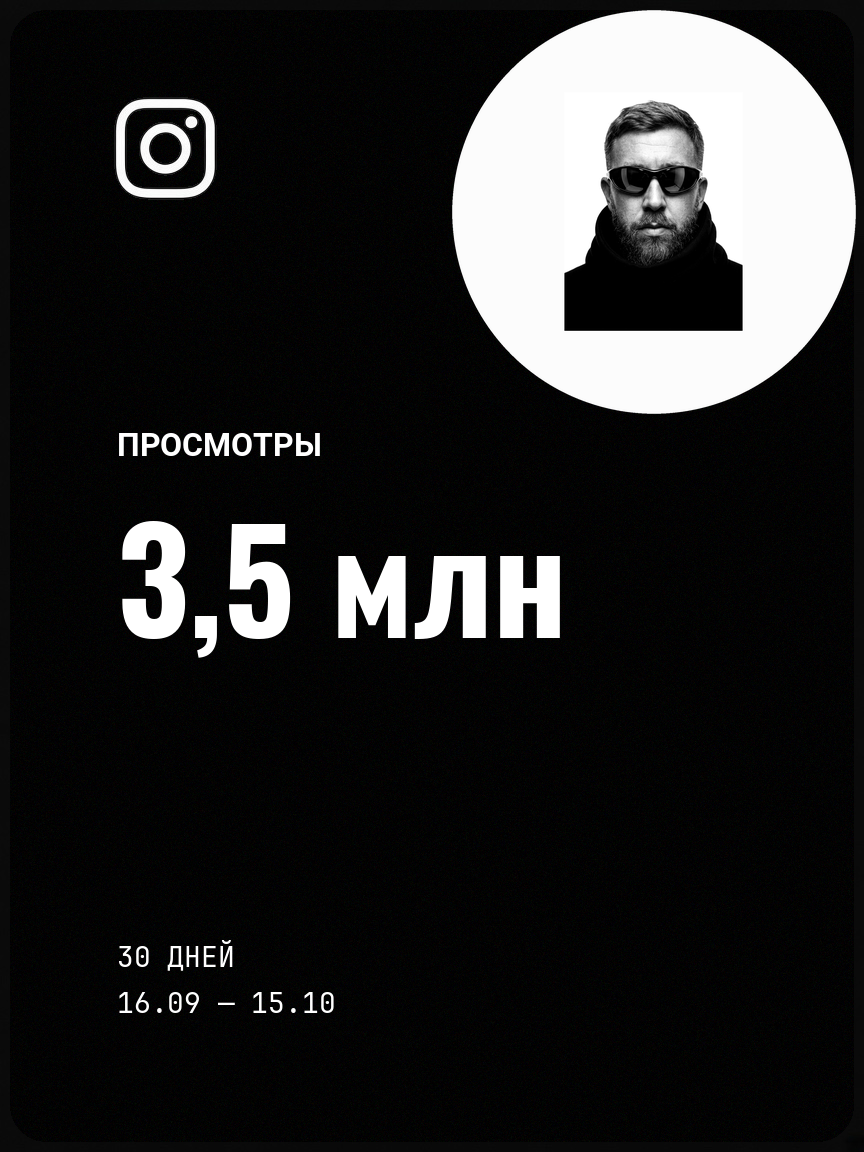
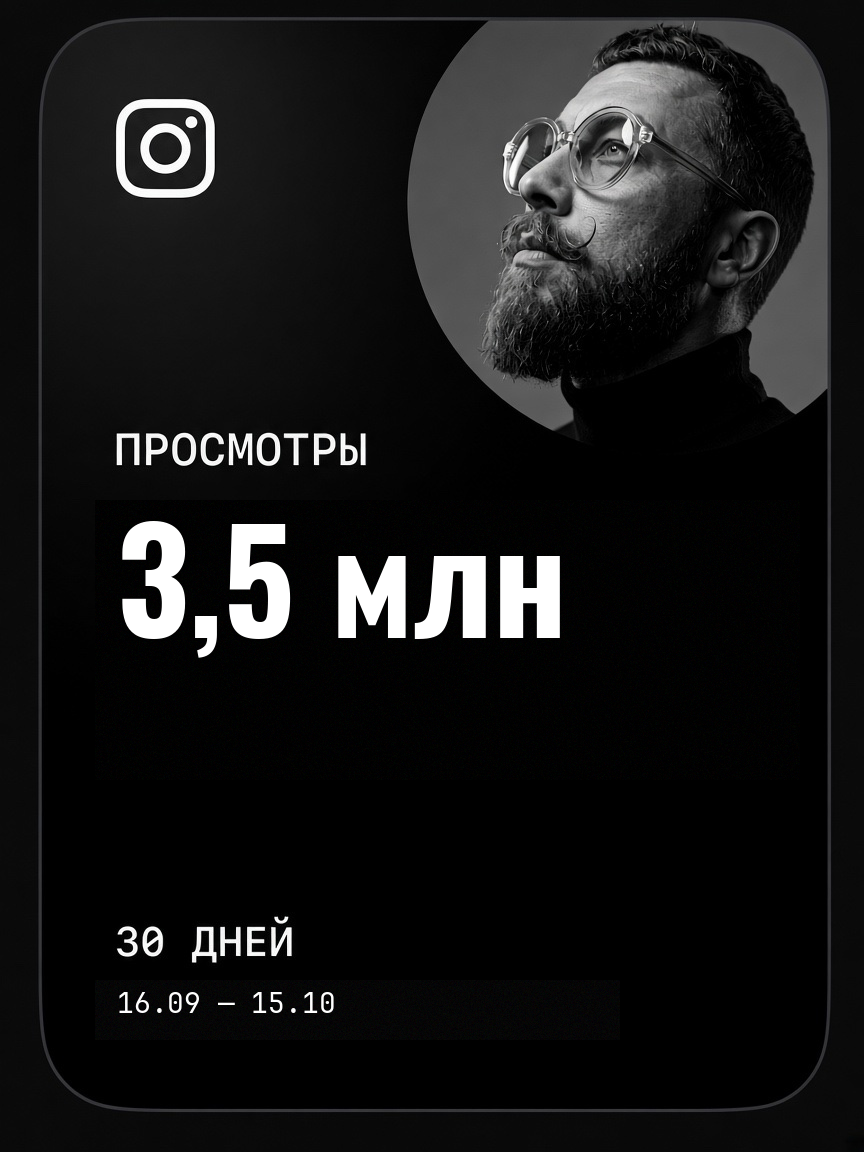
Keep original portrait; only update views number and dates
Revert photo replacement and edit just the stats text on the
source story card: 3,5 млн and 16.09 — 15.10.

diff --git a/generate_story_views.py b/generate_story_views.py
@@ -1,94 +1,60 @@
 #!/usr/bin/env python3
-"""Generate Instagram story stats card: views, dates, circular portrait."""
+"""Update story stats card: change number and dates only; keep original photo."""
 
 from pathlib import Path
 
 import numpy as np
-from PIL import Image, ImageDraw, ImageEnhance, ImageFont
-from scipy import ndimage
+from PIL import Image, ImageDraw, ImageFont
 
 ROOT = Path(__file__).resolve().parent
 ORIG = ROOT / "assets" / "story-original.jpg"
-PORTRAIT = ROOT / "assets" / "portrait-new.jpg"
 FONT_NUM = ROOT / "fonts" / "Oswald-Bold.ttf"
-FONT_LABEL = ROOT / "fonts" / "Roboto-Bold.ttf"
 FONT_MONO = ROOT / "fonts" / "JetBrainsMono-Regular.ttf"
 OUT_JPG = ROOT / "story-views-3.5mln.jpg"
 OUT_PNG = ROOT / "output" / "story-views-updated.png"
 
-
-def rounded_rect_mask(w: int, h: int, radius: int, inset: int = 0) -> np.ndarray:
-    m = Image.new("L", (w, h), 0)
-    d = ImageDraw.Draw(m)
-    d.rounded_rectangle([inset, inset, w - 1 - inset, h - 1 - inset], radius=radius, fill=255)
-    return np.array(m) > 128
+# Circular portrait in source — never modify this region
+CX, CY, R = 654, 212, 202
 
 
 def main() -> None:
     orig = Image.open(ORIG).convert("RGB")
     w, h = orig.size
     og = np.array(orig)
-    gray = np.array(orig.convert("L"))
+    yy, xx = np.ogrid[:h, :w]
+    circle = (xx - CX) ** 2 + (yy - CY) ** 2 <= (R + 8) ** 2
 
-    logo_mask = (gray > 160) & (np.arange(h)[:, None] < 220) & (np.arange(w)[None, :] < 280)
-    logo_mask = ndimage.binary_dilation(logo_mask, iterations=2)
-
-    inner = rounded_rect_mask(w, h, radius=36, inset=10)
+    arr = og.copy()
     rng = np.random.default_rng(7)
-    grain = np.clip(rng.normal(2.0, 3.8, (h, w, 3)), 0, 20).astype(np.uint8)
 
-    new_arr = og.copy()
-    new_arr[inner] = grain[inner]
-    new_arr[logo_mask] = og[logo_mask]
-    im = Image.fromarray(new_arr)
+    # Wipe old number (full glyph height) and old date line
+    nx0, ny0, nx1, ny1 = 95, 500, 800, 780
+    bg = og[800:920, 40:200]
+    mean = bg.mean(axis=(0, 1))
+    arr[ny0:ny1, nx0:nx1] = np.clip(
+        rng.normal(mean, 3.2, size=(ny1 - ny0, nx1 - nx0, 3)), 0, 22
+    ).astype(np.uint8)
+    arr[circle] = og[circle]
 
-    cx, cy, r = 654, 212, 202
-    side = r * 2
-    bg = (252, 252, 252)
+    dx0, dy0, dx1, dy1 = 95, 980, 620, 1040
+    bg2 = og[1050:1120, 40:180]
+    mean2 = bg2.mean(axis=(0, 1))
+    arr[dy0:dy1, dx0:dx1] = np.clip(
+        rng.normal(mean2, 2.8, size=(dy1 - dy0, dx1 - dx0, 3)), 0, 22
+    ).astype(np.uint8)
 
-    from PIL import ImageOps
-
-    portrait = ImageOps.exif_transpose(Image.open(PORTRAIT)).convert("L")
-    portrait = ImageEnhance.Contrast(portrait).enhance(1.15)
-    portrait = ImageEnhance.Brightness(portrait).enhance(1.02).convert("RGB")
-    pw, ph = portrait.size
-
-    # Pad so the full head sits smaller inside the circle with clear margin
-    pad = int(max(pw, ph) * 0.16)
-    framed = Image.new("RGB", (pw + 2 * pad, ph + 2 * pad), bg)
-    framed.paste(portrait, (pad, pad))
-    fw, fh = framed.size
-    sq = max(fw, fh)
-    square = Image.new("RGB", (sq, sq), bg)
-    square.paste(framed, ((sq - fw) // 2, (sq - fh) // 2))
-
-    inner_fit = int(side * 0.78)
-    square = square.resize((inner_fit, inner_fit), Image.Resampling.LANCZOS)
-    circle_canvas = Image.new("RGB", (side, side), bg)
-    off = (side - inner_fit) // 2
-    circle_canvas.paste(square, (off, off))
-
-    mask_hi = Image.new("L", (side * 4, side * 4), 0)
-    ImageDraw.Draw(mask_hi).ellipse([1, 1, side * 4 - 2, side * 4 - 2], fill=255)
-    mask = mask_hi.resize((side, side), Image.Resampling.LANCZOS)
-    im.paste(circle_canvas, (cx - r, cy - r), mask)
-
+    im = Image.fromarray(arr)
     draw = ImageDraw.Draw(im)
-    font_label = ImageFont.truetype(str(FONT_LABEL), 32)
-    font_num = ImageFont.truetype(str(FONT_NUM), 141)
-    font_mono = ImageFont.truetype(str(FONT_MONO), 28)
-
-    label = "ПРОСМОТРЫ"
-    bb = draw.textbbox((0, 0), label, font=font_label)
-    draw.text((117, 433 - bb[1]), label, font=font_label, fill=(255, 255, 255))
 
     text = "3,5 млн"
+    font_num = ImageFont.truetype(str(FONT_NUM), 141)
     bb = draw.textbbox((0, 0), text, font=font_num)
     draw.text((117, 521 - bb[1]), text, font=font_num, fill=(255, 255, 255))
 
-    for t, y in [("30 ДНЕЙ", 940), ("16.09 — 15.10", 992)]:
-        bb = draw.textbbox((0, 0), t, font=font_mono)
-        draw.text((117, y - bb[1]), t, font=font_mono, fill=(255, 255, 255))
+    date_text = "16.09 — 15.10"
+    font_date = ImageFont.truetype(str(FONT_MONO), 28)
+    bb = draw.textbbox((0, 0), date_text, font=font_date)
+    draw.text((117, 992 - bb[1]), date_text, font=font_date, fill=(255, 255, 255))
 
     OUT_JPG.parent.mkdir(parents=True, exist_ok=True)
     OUT_PNG.parent.mkdir(parents=True, exist_ok=True)
